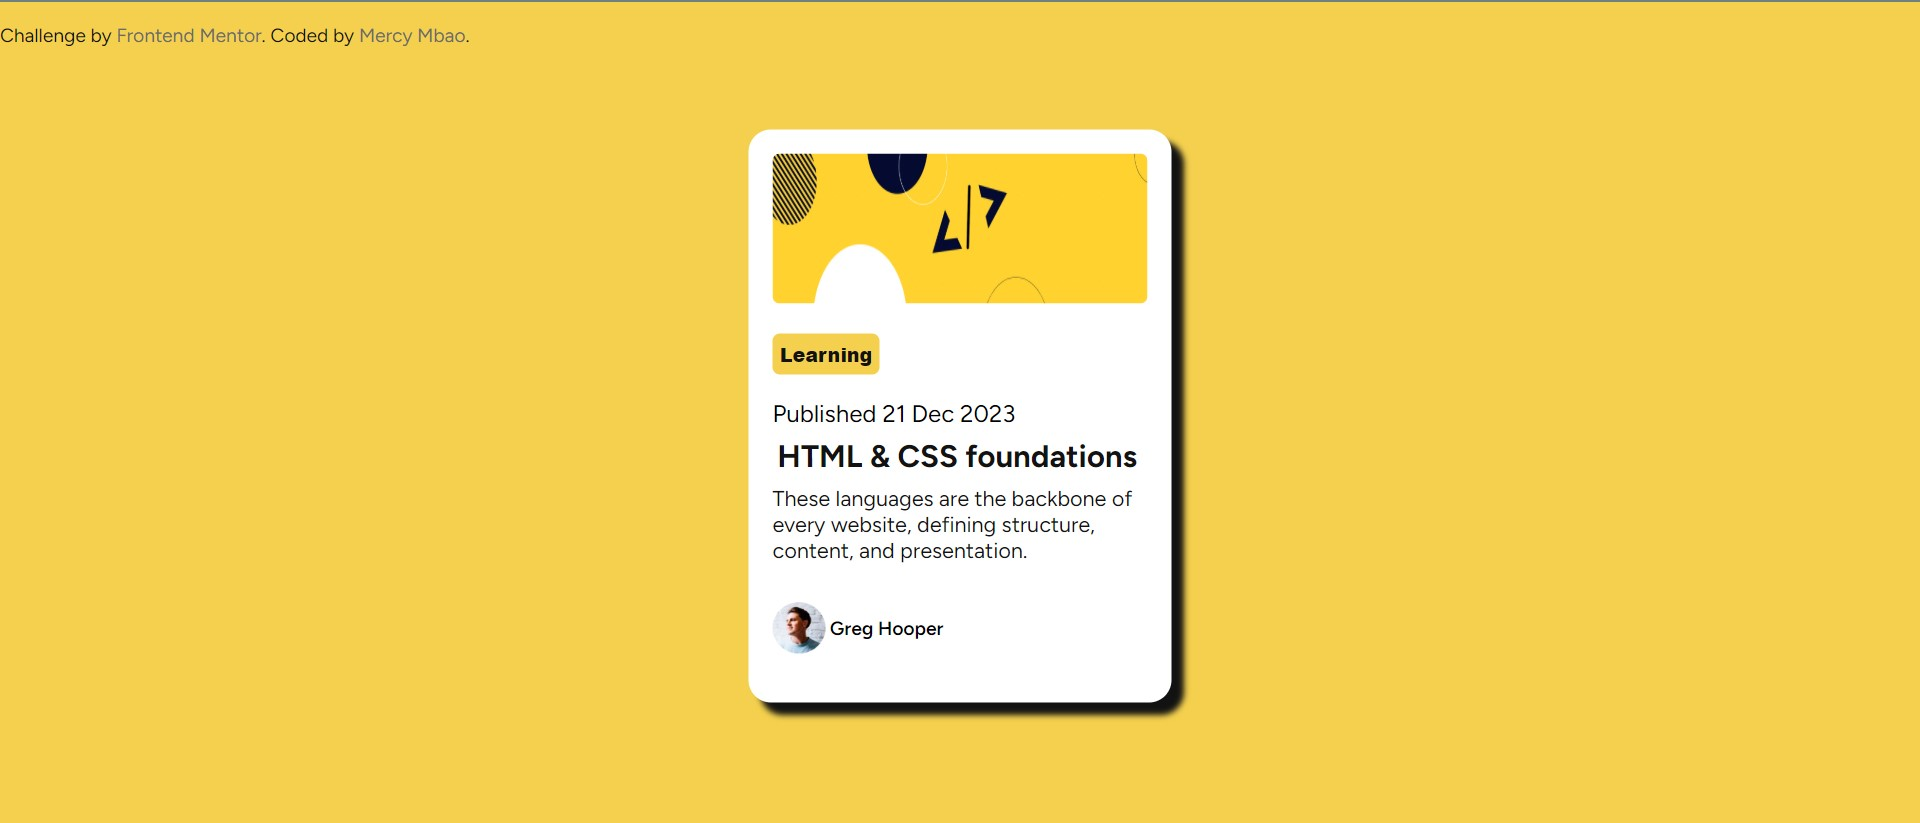
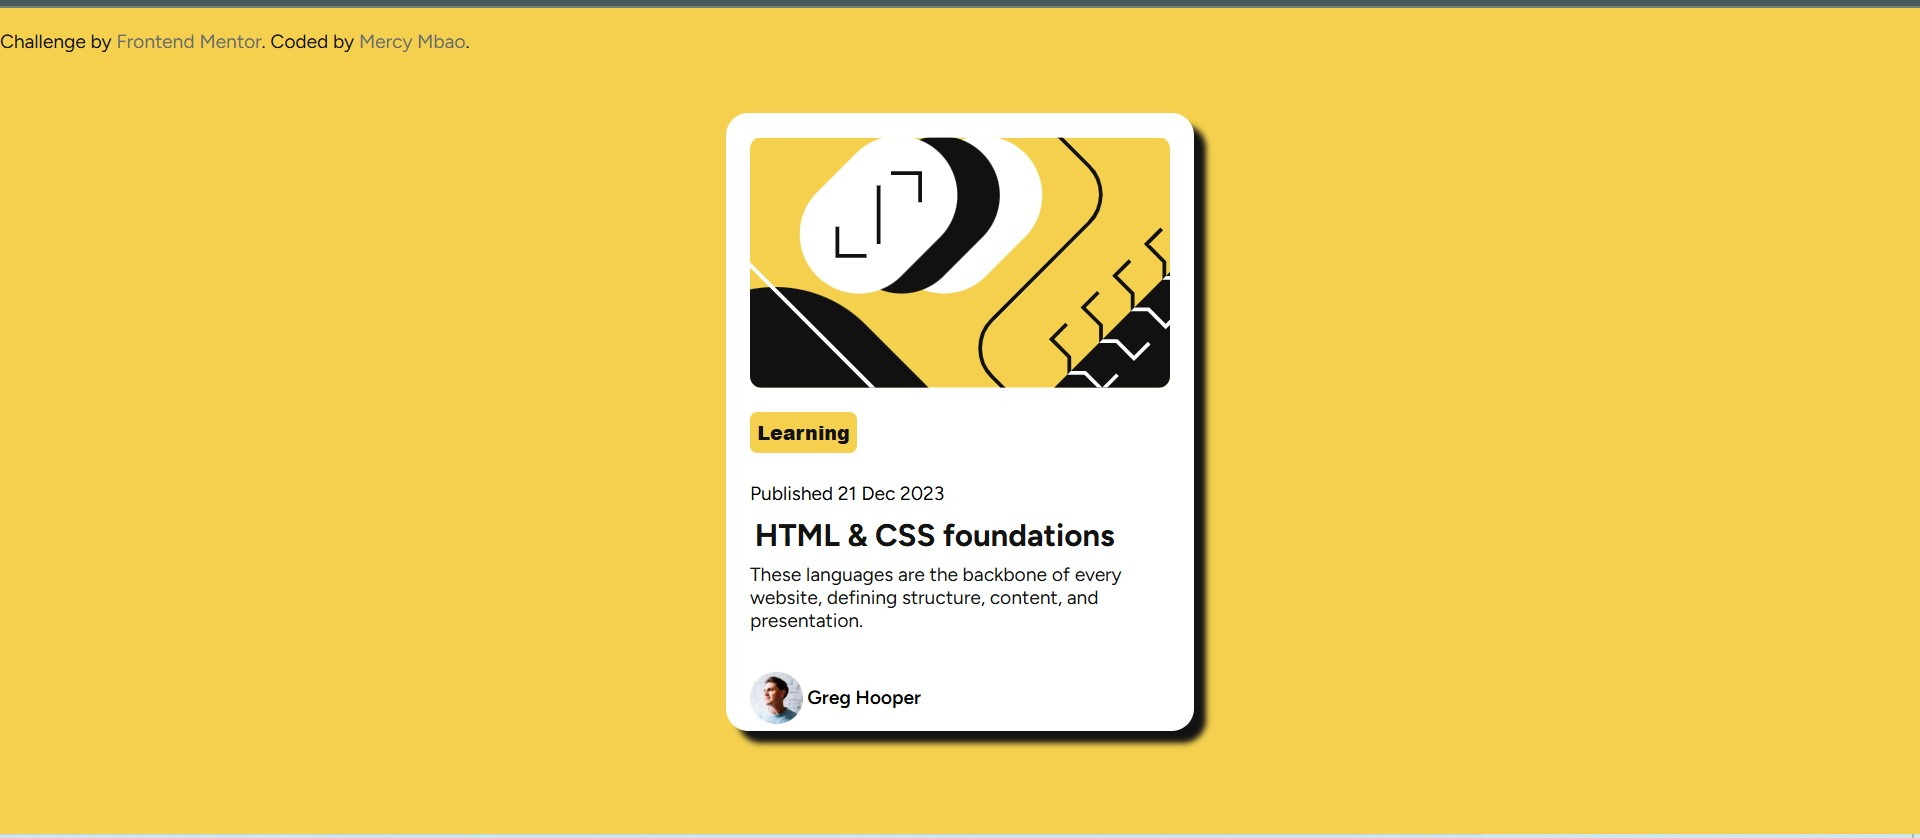
updated css

Changed region(s): [[0.375, 0.1215, 0.6562, 0.9113], [0.0, 0.0, 1.0, 0.0608], [0.0, 0.9721, 1.0, 1.0]]

diff --git a/index.html b/index.html
@@ -13,7 +13,7 @@
 <body>
   <main class="card">
     <div class="banner">
-      <img src="./assets/images/headbanner.jpg" width="200px" height="100px">
+      <svg xmlns="http://www.w3.org/2000/svg" width="336" height="201" fill="none" viewBox="0 0 336 201"><g clip-path="url(#a)"><path fill="#F4D04E" d="M0 .5h336v200H0z"/><rect width="139" height="95" x="87.996" y="77.729" fill="#fff" rx="47.5" transform="rotate(-45 87.996 77.729)"/><rect width="139" height="95" x="54.055" y="77.729" fill="#111" rx="47.5" transform="rotate(-45 54.055 77.729)"/><path fill="#111" d="M234.864 209.036 451.4-7.5l67.175 67.175-216.536 216.536z"/><rect width="139" height="95" x="20.114" y="77.729" fill="#fff" rx="47.5" transform="rotate(-45 20.114 77.729)"/><rect width="204.19" height="270.554" fill="#111" rx="102.095" transform="scale(-1 1) rotate(45 -103.887 14.564)"/><path stroke="#fff" stroke-width="3" d="m6.69-357.5 135.583 135.727c12.481 12.494 12.481 32.737 0 45.231L-45.544 11.475c-12.481 12.494-12.481 32.737 0 45.23L107.088 209.5"/><path stroke="#111" stroke-width="3" d="M69.965 71.719v23.334h23.334M136.079 52.273V28.94h-23.334M102.845 38.838v46.67M210.364-37.5l60.873 60.873c12.497 12.496 12.497 32.758 0 45.254l-77.745 77.746c-12.497 12.496-12.497 32.758 0 45.254l69.872 69.873"/><path stroke="#111" stroke-width="3" d="m253.339 149.574-12.144 12.145 14.256 14.257v12.672h12.673l13.729 13.729 12.145-12.145M278.685 124.228l-12.145 12.145 14.257 14.257v12.673h12.673l13.729 13.729 12.145-12.145M304.031 98.883l-12.145 12.144 14.257 14.257v12.673h12.673l13.729 13.729 12.144-12.145M329.376 73.537l-12.145 12.145 14.257 14.257v12.672h12.673l13.729 13.729 12.145-12.144"/><path stroke="#fff" stroke-width="5" d="m354.722 48.191-12.145 12.145 14.257 14.257v12.673h12.673l13.729 13.729 12.145-12.145"/><mask id="b" width="285" height="285" x="234" y="-8" maskUnits="userSpaceOnUse" style="mask-type:alpha"><path fill="#111" d="M234.864 209.036 451.4-7.5l67.175 67.175-216.536 216.536z"/></mask><g stroke="#fff" mask="url(#b)"><path stroke-width="3" d="m253.339 149.574-12.144 12.145 14.256 14.257v12.672h12.673l13.729 13.729 12.145-12.145M278.685 124.228l-12.145 12.145 14.257 14.257v12.673h12.673l13.729 13.729 12.145-12.145M304.031 98.883l-12.145 12.144 14.257 14.257v12.673h12.673l13.729 13.729 12.144-12.145M329.376 73.537l-12.145 12.145 14.257 14.257v12.672h12.673l13.729 13.729 12.145-12.145"/><path stroke-width="5" d="m354.722 48.191-12.145 12.145 14.257 14.257v12.673h12.673l13.729 13.729 12.145-12.145"/></g></g><defs><clipPath id="a"><path fill="#fff" d="M0 .5h336v200H0z"/></clipPath></defs></svg>
     </div>
     <button class="btn">Learning</button>
   <article class="content">

diff --git a/assets/styles.css b/assets/styles.css
@@ -16,13 +16,16 @@ body{
     border-radius: 15px;
     padding: 1rem;
     width: 280px;
-    height: 350px;
+    height: 380px;
     box-shadow: 8px 8px 4px hsl(0, 0%, 7%);
     
 }
-.banner img {
-    width: 100%;
-    border-radius: 5px;
+.banner svg {
+    width: 280px;
+    border-radius: 8px;
+    height: auto;
+    display: block;
+    margin: 0 auto;
 }
 .card button {
     background-color: hsl(47, 88%, 63%);
